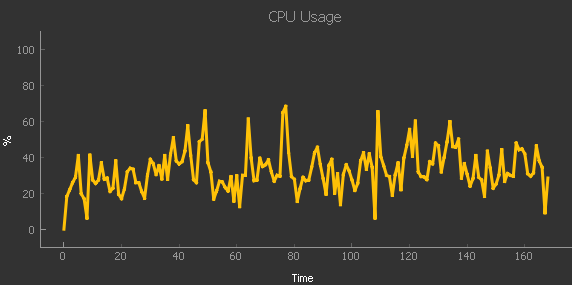
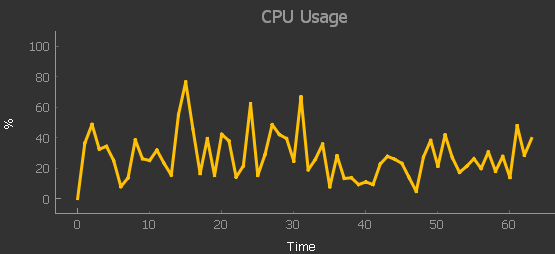
final changes

diff --git a/GUI/main.py b/GUI/main.py
@@ -15,7 +15,7 @@ class CPUMonitorThread(QThread):
 
     def run(self):
         while True:
-            cpu_usage = psutil.cpu_percent()
+            cpu_usage = psutil.cpu_percent(percpu=True)
             cpu_usage_core = max(cpu_usage) 
             self.cpu_data_updated.emit([cpu_usage_core])
             self.msleep(1000)
